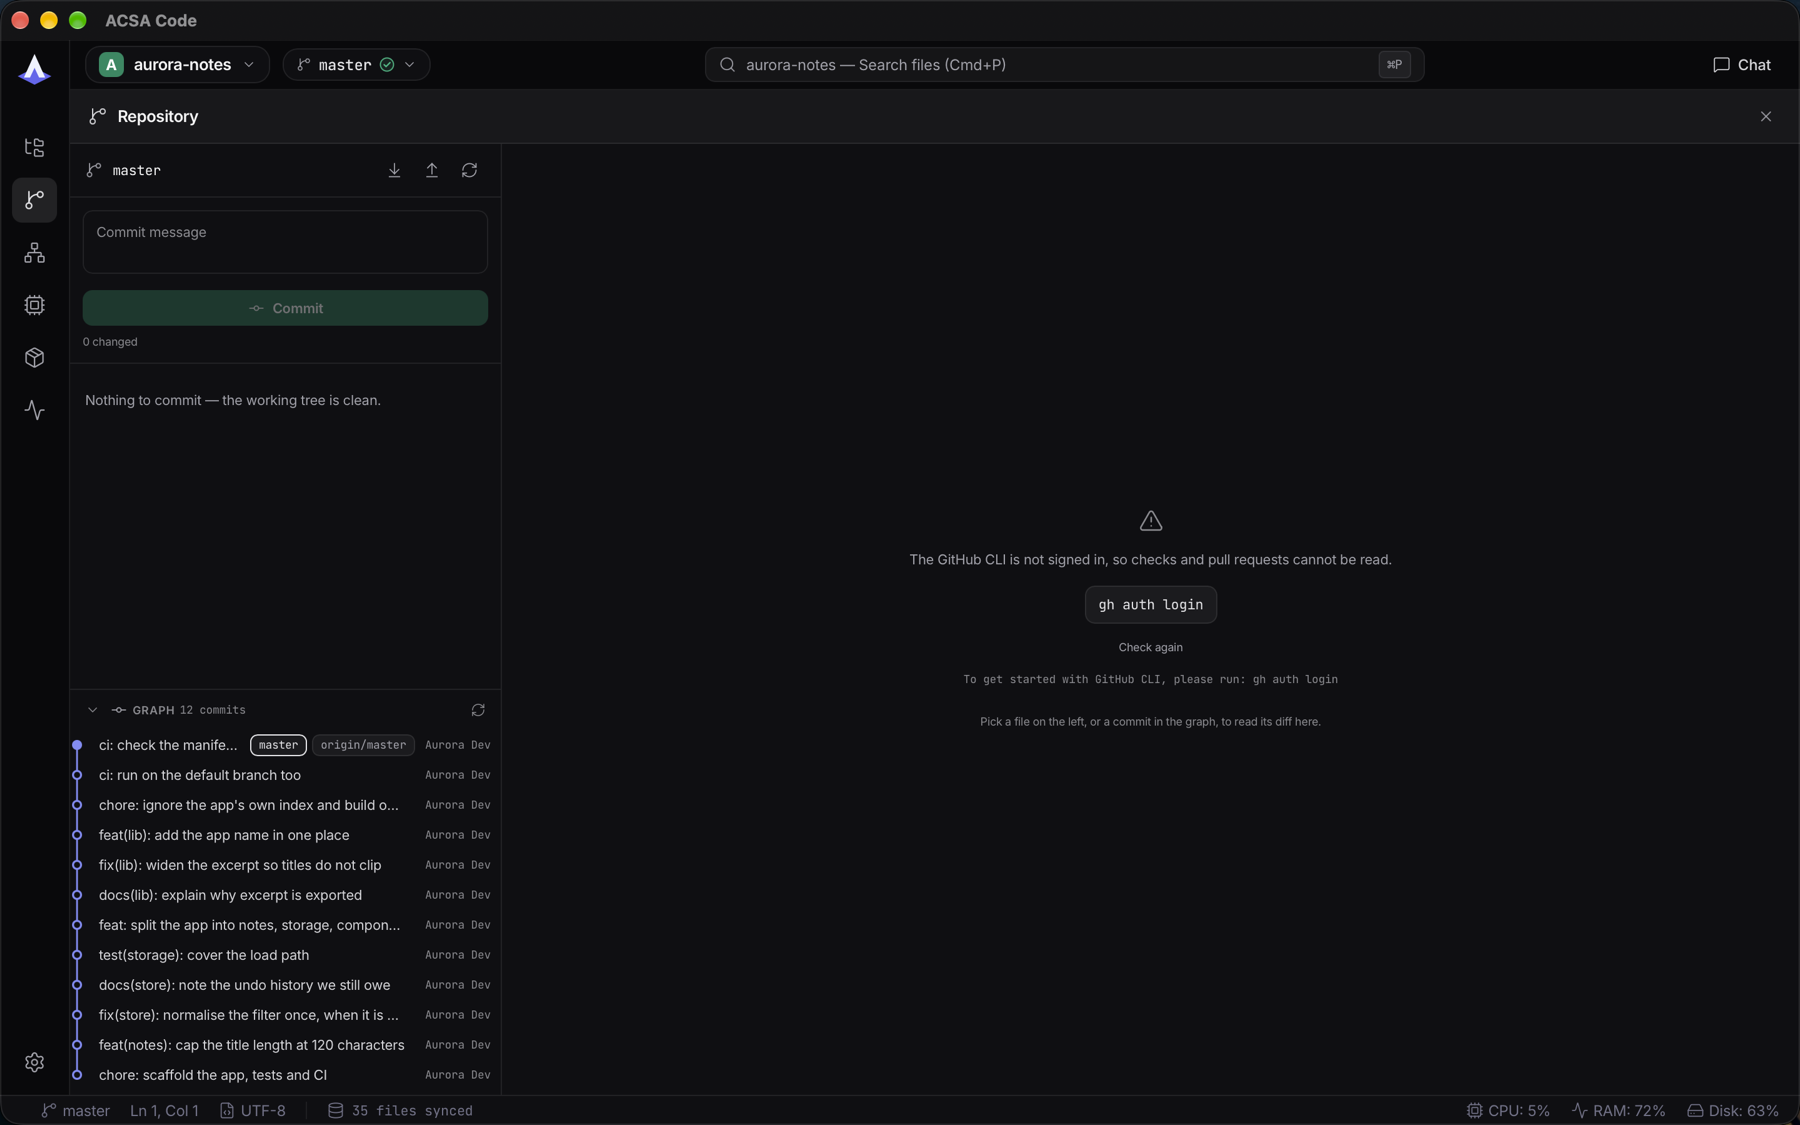
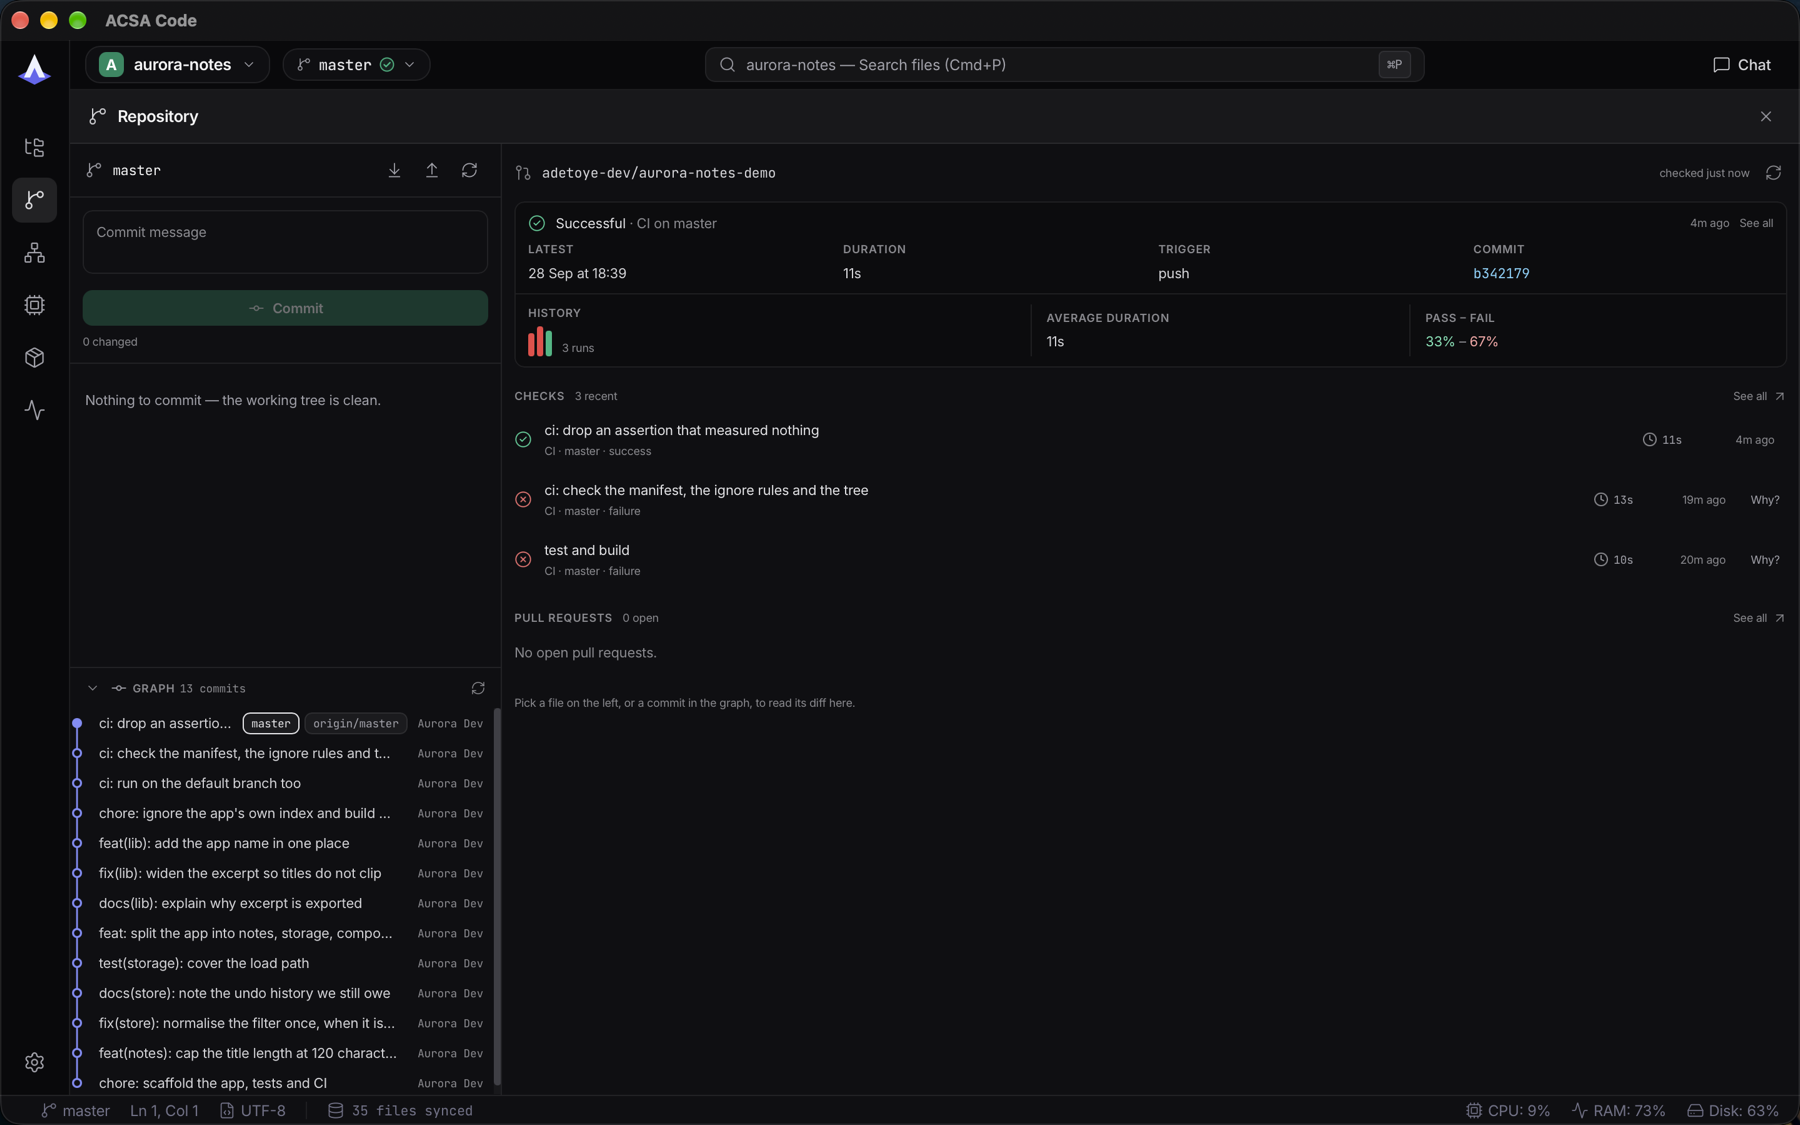
feat(site): the repository screenshot now shows a real CI card
The capture that was on the page said "the GitHub CLI is not signed in" — the demo instance runs with its own HOME, so gh had no config to read. Pointing GH_CONFIG_DIR at the real config (no copy of the credential, read in place) fills the card with the actual runs: the latest success with its duration, trigger and commit, a three-run history bar with the pass/fail split, the three most recent checks, and the pull-request count. The alt text follows.

diff --git a/site/index.html b/site/index.html
@@ -254,7 +254,7 @@
                 <li>It stays in step with checkouts and the agent's own writes, so it never misreports what is uncommitted.</li>
               </ul>
               <div class="shot shot--real">
-                <img src="./shots/repository.png" alt="The Repository screen: a clean working tree, the commit box, and twelve commits in the graph with the branch and its remote." width="1800" height="1125" loading="lazy" />
+                <img src="./shots/repository.png" alt="The Repository screen: a clean working tree, the commit box, thirteen commits in the graph, and the latest CI run with its duration, trigger and the three-run history." width="1800" height="1125" loading="lazy" />
               </div>
             </article>
 
